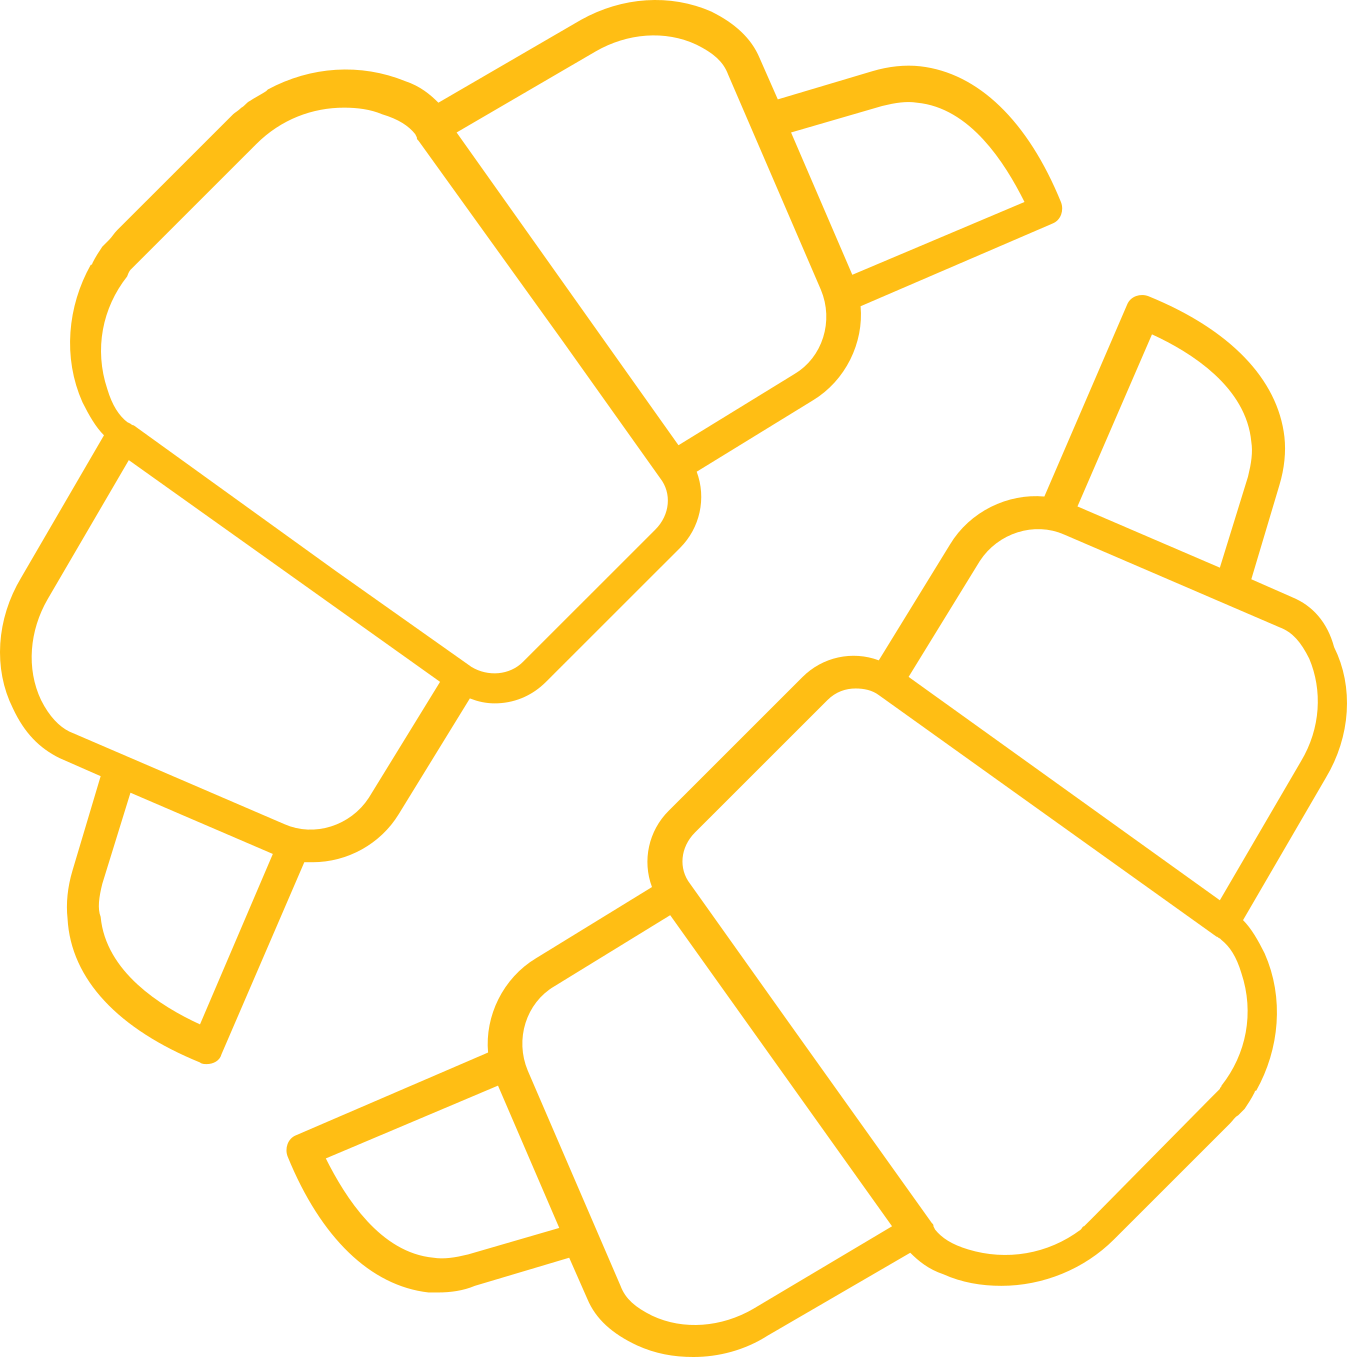
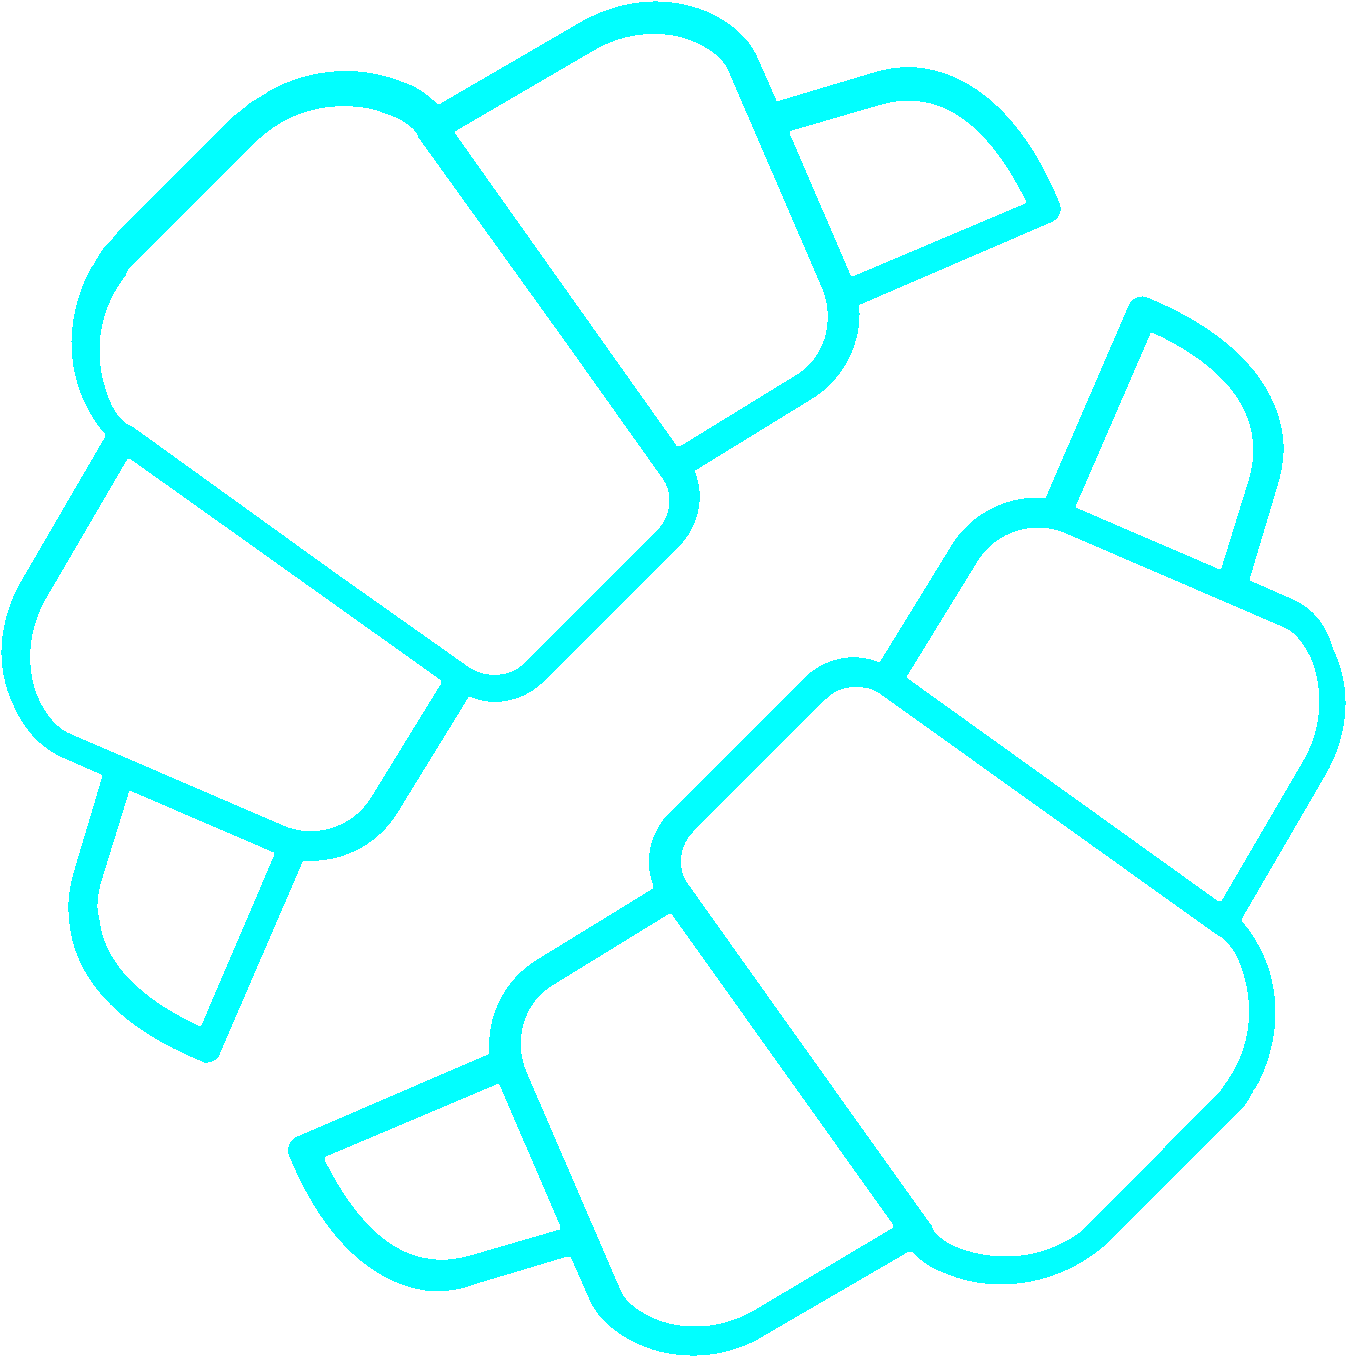
Added hacktoberfest landing page

Changed region(s): [[0.1871, 0.2167, 1.0, 1.0], [0.0, 0.0, 0.8107, 0.8047]]

diff --git a/app/assets/stylesheets/application.scss b/app/assets/stylesheets/application.scss
@@ -257,6 +257,85 @@ h5 {
   );
 }
 
+.hacktoberfest-action {
+  color: white;
+  font-family: 'Roboto Condensed', sans-serif;
+  font-size: 4em;
+  font-weight: bold;
+  -ms-transform: skewY(-5deg);
+  -webkit-transform: skewY(-5deg);
+  transform: skewY(-5deg);
+  padding-bottom: 5em;
+}
+
+.hacktoberfest-cyan-text {
+  color: #01FFFF;
+}
+
+.hacktoberfest-blue-text {
+  color: #2B81D9;
+}
+
+.hacktoberfest-orange-text {
+  color: #FF9A56;
+}
+
+.hacktoberfest-date {
+  color: #FF9A56;
+  font-family: 'Roboto Condensed', sans-serif;
+  font-size: 6em;
+  font-weight: bold;
+  -ms-transform: skewY(-5deg);
+  -webkit-transform: skewY(-5deg);
+  transform: skewY(-5deg);
+}
+
+.hacktoberfest-decription {
+  background: #582D41;
+  color: white;
+  font-family: 'Roboto Condensed', sans-serif;
+  font-size: 2em;
+  font-weight: bold;
+
+  .container {
+    margin-top: 0px;
+  }
+
+  .col-lg-4 {
+    margin-top: 4em;
+  }
+}
+
+.hacktoberfest-countdown {
+  color: #FF9A56;
+  font-family: 'Roboto Condensed', sans-serif;
+  font-size: 2em;
+  font-weight: bold;
+  -ms-transform: skewY(-5deg);
+  -webkit-transform: skewY(-5deg);
+  transform: skewY(-5deg);
+}
+
+.hacktoberfest-location {
+  color: #01FFFF;
+  font-family: 'Roboto Condensed', sans-serif;
+  font-size: 2em;
+  font-weight: bold;
+  -ms-transform: skewY(-5deg);
+  -webkit-transform: skewY(-5deg);
+  transform: skewY(-5deg);
+}
+
+.hacktoberfest-header {
+  background: #582D41;
+  text-align: center;
+
+  .container {
+    padding-top: 10em;
+    padding-bottom: 10em;
+  }
+}
+
 .jumbotron h1, .description h1 {
   border-bottom: none;
 }
@@ -277,7 +356,7 @@ label {
 }
 
 .landing-icon {
-  width: 25%;
+  width: 45%;
 }
 
 .landing-location {
@@ -469,6 +548,14 @@ label {
 
   .responsive-button {
     font-size: 1.4em;
+  }
+
+  .hacktoberfest-action {
+    font-size: 2em;
+  }
+
+  .hacktoberfest-date {
+    font-size: 2em;
   }
 }
 

diff --git a/config/routes.rb b/config/routes.rb
@@ -10,8 +10,9 @@ Rails.application.routes.draw do
   match '/rules' => 'pages#rules', via: :get
   match '/reglas' => 'pages#reglas', via: :get
   match '/regles' => 'pages#regles', via: :get
-  match '/speakers' => 'pages#speakers', via: :get
-  match '/schedule' => 'pages#schedule', via: :get
+  match '/hacktoberfest' => 'pages#hacktoberfest', via: :get
+  #match '/speakers' => 'pages#speakers', via: :get
+  #match '/schedule' => 'pages#schedule', via: :get
 
   match '/read_notifications',           to: 'notifications#mark_all_as_read', via: [:post]
 
